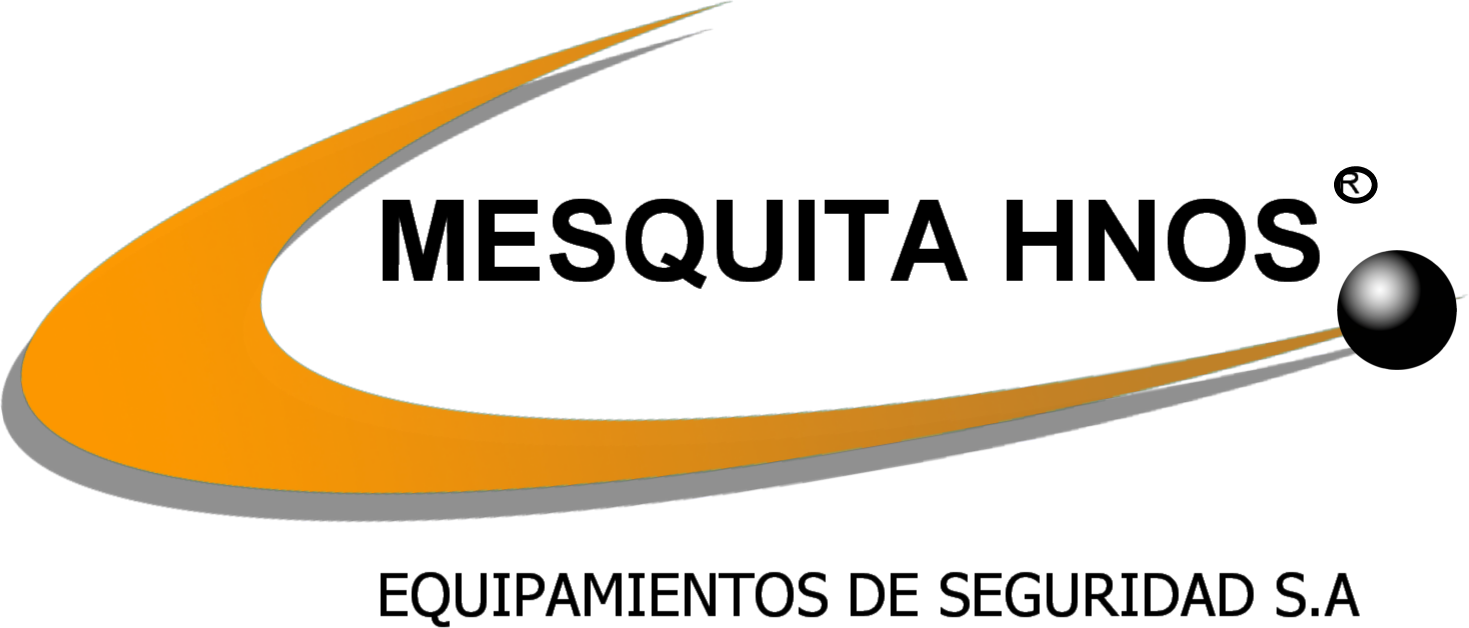
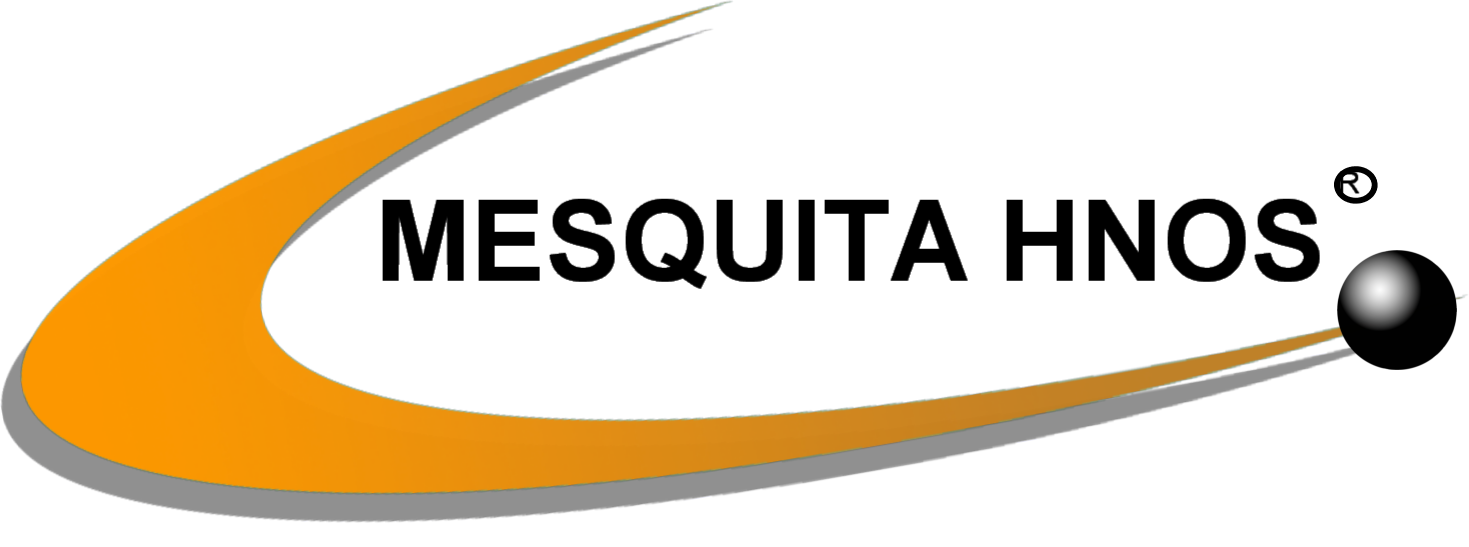
Rebrand from EQUIPAMIENTOS DE SEGURIDAD S.A. to MESQUITA HNOS

diff --git a/templates/porton.html b/templates/porton.html
@@ -2,7 +2,7 @@
 
 <html>
 <head>
-	<title>EQUIPAMIENTOS DE SEGURIDAD - Certificado Portón Cortafuego</title>
+	<title>MESQUITA HNOS - Certificado Portón Cortafuego</title>
 	<meta charset="utf-8"/>
 	<style>
 
@@ -75,10 +75,10 @@
 
 	<p>Sin m&aacute;s los saluda muy cordialmente.</p>
 
-	<p>Monica Drago</p>
-	<p>Equipamientos de Seguridad S.A. - Apoderada</p>
+	<p>Christian Mesquita</p>
+	<p>Mesquita Hnos - Director</p>
 
-	<img class="firma" src="assets/firma_monica_certificados.jpg"/>
+	<img class="firma" src="assets/firma_christian_certificados.jpg"/>
 
 	<p class="firma-cliente">RECIB&Iacute;: ...................................................................</p>
 

diff --git a/templates/puerta.html b/templates/puerta.html
@@ -2,7 +2,7 @@
 
 <html>
 <head>
-	<title>EQUIPAMIENTOS DE SEGURIDAD - Certificado Puerta Cortafuego</title>
+	<title>MESQUITA HNOS - Certificado Puerta Cortafuego</title>
 	<meta charset="utf-8"/>
 	<style>
 
@@ -77,10 +77,10 @@
 
 	<p>Sin m&aacute;s los saluda muy cordialmente.</p>
 
-	<p>Monica Drago</p>
-	<p>Equipamientos de Seguridad S.A. - Apoderada</p>
+	<p>Christian Mesquita</p>
+	<p>Mesquita Hnos - Director</p>
 
-	<img class="firma" src="assets/firma_monica_certificados.jpg"/>
+	<img class="firma" src="assets/firma_christian_certificados.jpg"/>
 
 	<p class="firma-cliente">RECIB&Iacute;: ...................................................................</p>
 

diff --git a/templates/puerta_euro.html b/templates/puerta_euro.html
@@ -2,7 +2,7 @@
 
 <html>
 <head>
-	<title>EQUIPAMIENTOS DE SEGURIDAD - Certificado Puerta Cortafuego</title>
+	<title>MESQUITA HNOS - Certificado Puerta Cortafuego</title>
 	<meta charset="utf-8"/>
 	<style>
 
@@ -77,10 +77,10 @@
 
 	<p>Sin m&aacute;s los saluda muy cordialmente.</p>
 
-	<p>Monica Drago</p>
-	<p>Equipamientos de Seguridad S.A. - Apoderada</p>
+	<p>Christian Mesquita</p>
+	<p>Mesquita Hnos - Director</p>
 
-	<img class="firma" src="assets/firma_monica_certificados.jpg"/>
+	<img class="firma" src="assets/firma_christian_certificados.jpg"/>
 
 	<p class="firma-cliente">RECIB&Iacute;: ...................................................................</p>
 
